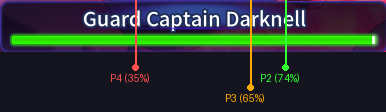
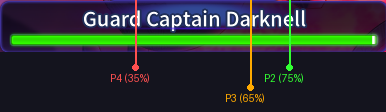
Set Phase 2 boss HP boundary back to 75% aligning with the letter e of Darknell in README and screen tracker

Changed region(s): [[0.6528, 0.0, 0.8083, 0.75]]

diff --git a/screen_tracker.py b/screen_tracker.py
@@ -131,15 +131,15 @@ class ScreenTrackerThread(QThread):
                     continue
                 
                 # Check column fill status at character-aligned landmarks relative to actual nameplate
-                # Phase 2: near the "n" in "Darknell" (~74% of nameplate width)
+                # Phase 2: in the "e" in "Darknell" (~75% of nameplate width)
                 # Phase 3: between "ar" in "Darknell" (~65% of nameplate width)
                 # Phase 4: in the "d" in "Guard" (~35% of nameplate width)
                 filled_p4 = self.check_column_filled(img, left + int(0.35 * actual_w), h, filled_color)
                 filled_p3 = self.check_column_filled(img, left + int(0.65 * actual_w), h, filled_color)
-                filled_p2 = self.check_column_filled(img, left + int(0.74 * actual_w), h, filled_color)
+                filled_p2 = self.check_column_filled(img, left + int(0.75 * actual_w), h, filled_color)
                 
                 # Log debug info to console (will appear in task logs)
-                print(f"[Tracker] Active={hp_bar_active} | p4(35%)={filled_p4} | p3(65%)={filled_p3} | p2(74%)={filled_p2}")
+                print(f"[Tracker] Active={hp_bar_active} | p4(35%)={filled_p4} | p3(65%)={filled_p3} | p2(75%)={filled_p2}")
                 
                 # Determine detected phase
                 if not filled_p4:

diff --git a/README.md b/README.md
@@ -17,7 +17,7 @@ A real-time, transparent desktop HUD overlay designed to assist MapleStory M pla
   - **Auto-Cropping Leniency**: Automatically finds the exact bounds of the nameplate box within the calibrated region, absorbing user margin drawing errors.
   - **No-OCR Green Density Scanning**: Runs a vertical pixel-density hue scanner that is immune to centered text overlays ("Guard Captain Darknell"), resolution scaling, or accidental click calibrations.
   - **Lobby/Death Detection**: Detects if you are in a lobby, loading screen, or town, and pauses tracking automatically until the green HP bar appears.
-  - **Phase Transition Boundaries**: Checked dynamically at 35% (in the "d" of Guard), 65% (between "ar" in Darknell), and 74% (near "n" in Darknell) of the nameplate width (visualized on the calibration image in the Setup section below).
+  - **Phase Transition Boundaries**: Checked dynamically at 35% (in the "d" of Guard), 65% (between "ar" in Darknell), and 75% (in the "e" of Darknell) of the nameplate width (visualized on the calibration image in the Setup section below).
 - **⌨ System-Wide Global Hotkey**: Press `Ctrl+Shift+U` at any time (even while in-game) to toggle between **HUD Mode** (click-through, stays-on-top) and **Setup Mode** (draggable, buttons and audio configurations active).
 
 ---
@@ -72,8 +72,8 @@ Upon launching the application:
      ![HP Bar Calibration Example](hp_bar_example.png)
      
      The active HP tracker scans vertical columns at specific percentage offsets of the nameplate width to divide the fight into four distinct phases:
-     - **Phase 1 (100% - 74% HP)**: Initial phase.
-     - **Phase 2 (74% - 65% HP)**: Starts once the green HP drops past **74%** (positioned near the `"n"` in `"Darknell"`).
+     - **Phase 1 (100% - 75% HP)**: Initial phase.
+     - **Phase 2 (75% - 65% HP)**: Starts once the green HP drops past **75%** (positioned exactly in the `"e"` in `"Darknell"`).
      - **Phase 3 (65% - 35% HP)**: Starts once the green HP drops past **65%** (positioned exactly between the `"a"` and `"r"` in `"Darknell"`).
      - **Phase 4 (35% - 0% HP)**: Starts once the green HP drops past **35%** (positioned exactly in the `"d"` in `"Guard"`).
      
